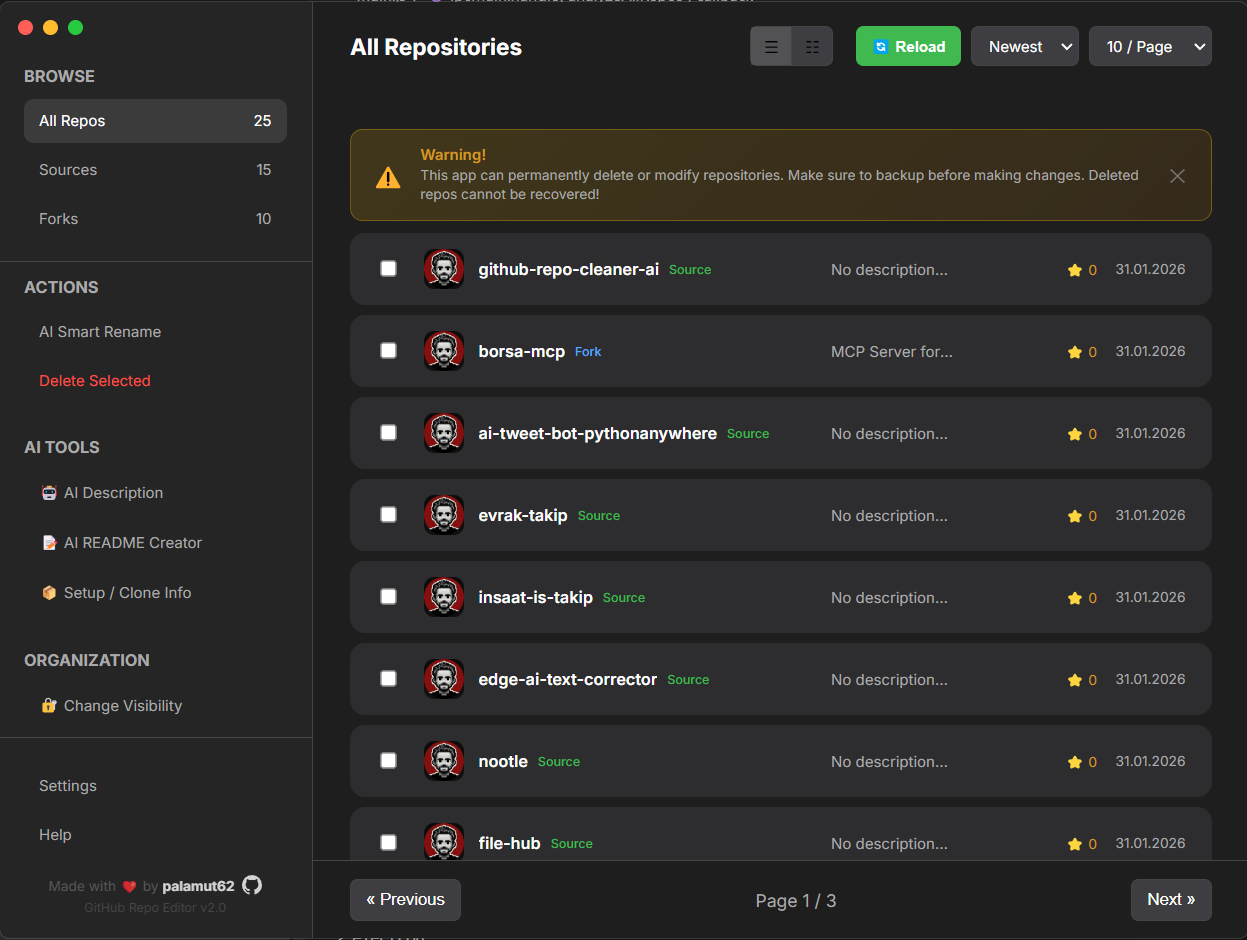
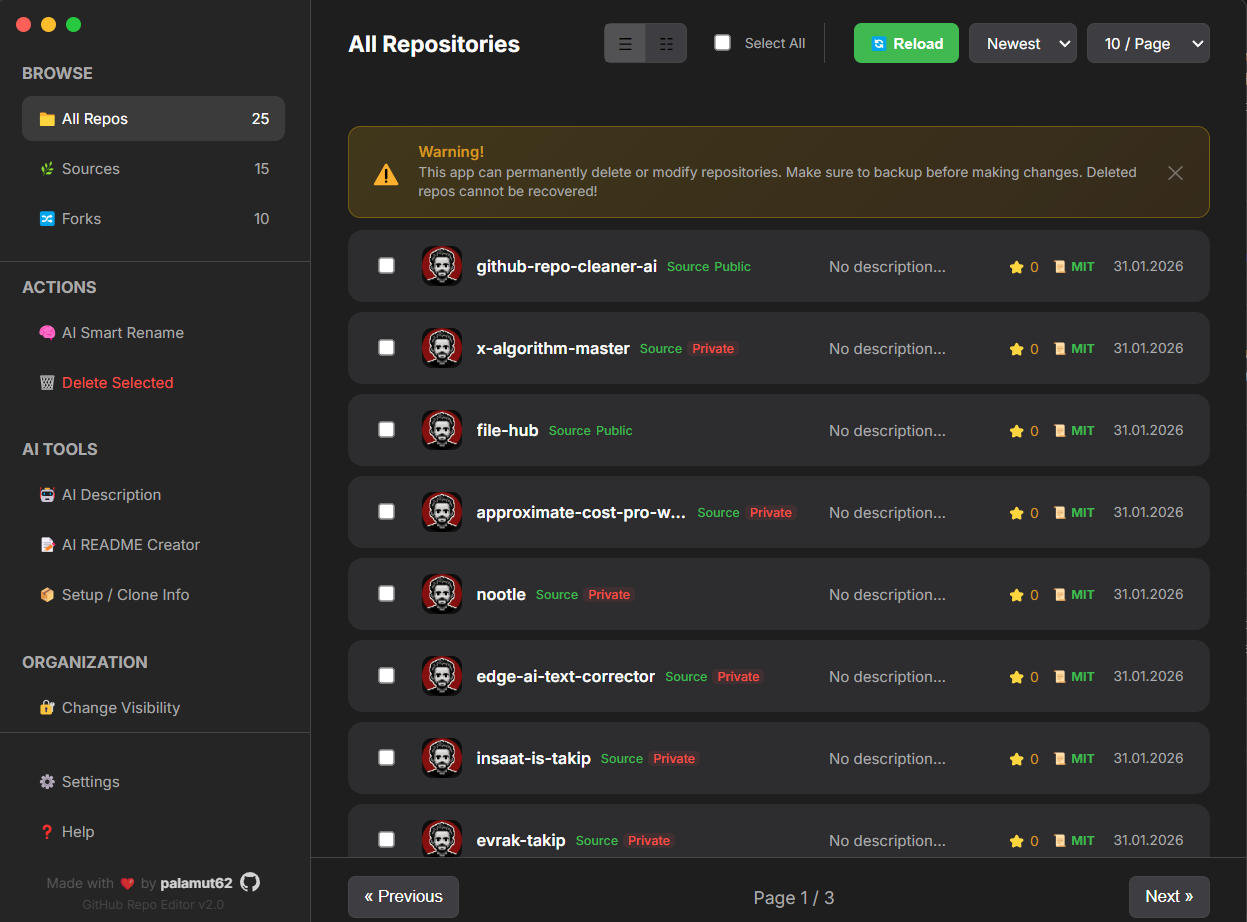
feat: Add repository visibility badges (Public/Private) to repository cards and update screenshot.

diff --git a/index.html b/index.html
@@ -358,6 +358,17 @@
             opacity: 0.6;
         }
 
+        .badge-public {
+            color: var(--accent-green);
+        }
+
+        .badge-private {
+            color: var(--danger);
+            background: rgba(248, 81, 73, 0.1) !important;
+            padding: 0 4px;
+            border-radius: 4px;
+        }
+
         .card-check {
             position: absolute;
             top: 20px;
@@ -1484,6 +1495,8 @@
                         licenseBadge = `<div class="badge ${isMit ? 'badge-mit' : 'badge-license'}">📜 ${repo.license.spdx_id}</div>`;
                     }
 
+                    const visibilityBadge = repo.private ? '<div class="badge badge-private">Private</div>' : '<div class="badge badge-public">Public</div>';
+
                     card.innerHTML = `
                         <input type="checkbox" class="card-check" value="${repo.full_name}" onclick="event.stopPropagation()">
                         <div class="card-header">
@@ -1491,7 +1504,10 @@
                             <div class="repo-details">
                                 <div style="display: flex; align-items: center; gap: 8px;">
                                     <div class="card-title" title="${repo.name}" style="margin:0;">${repo.name}</div>
-                                    <div class="badge ${badgeClass}">${badge}</div>
+                                    <div style="display: flex; gap: 4px; align-items: center;">
+                                        <div class="badge ${badgeClass}">${badge}</div>
+                                        ${visibilityBadge}
+                                    </div>
                                 </div>
                             </div>
                         </div>
